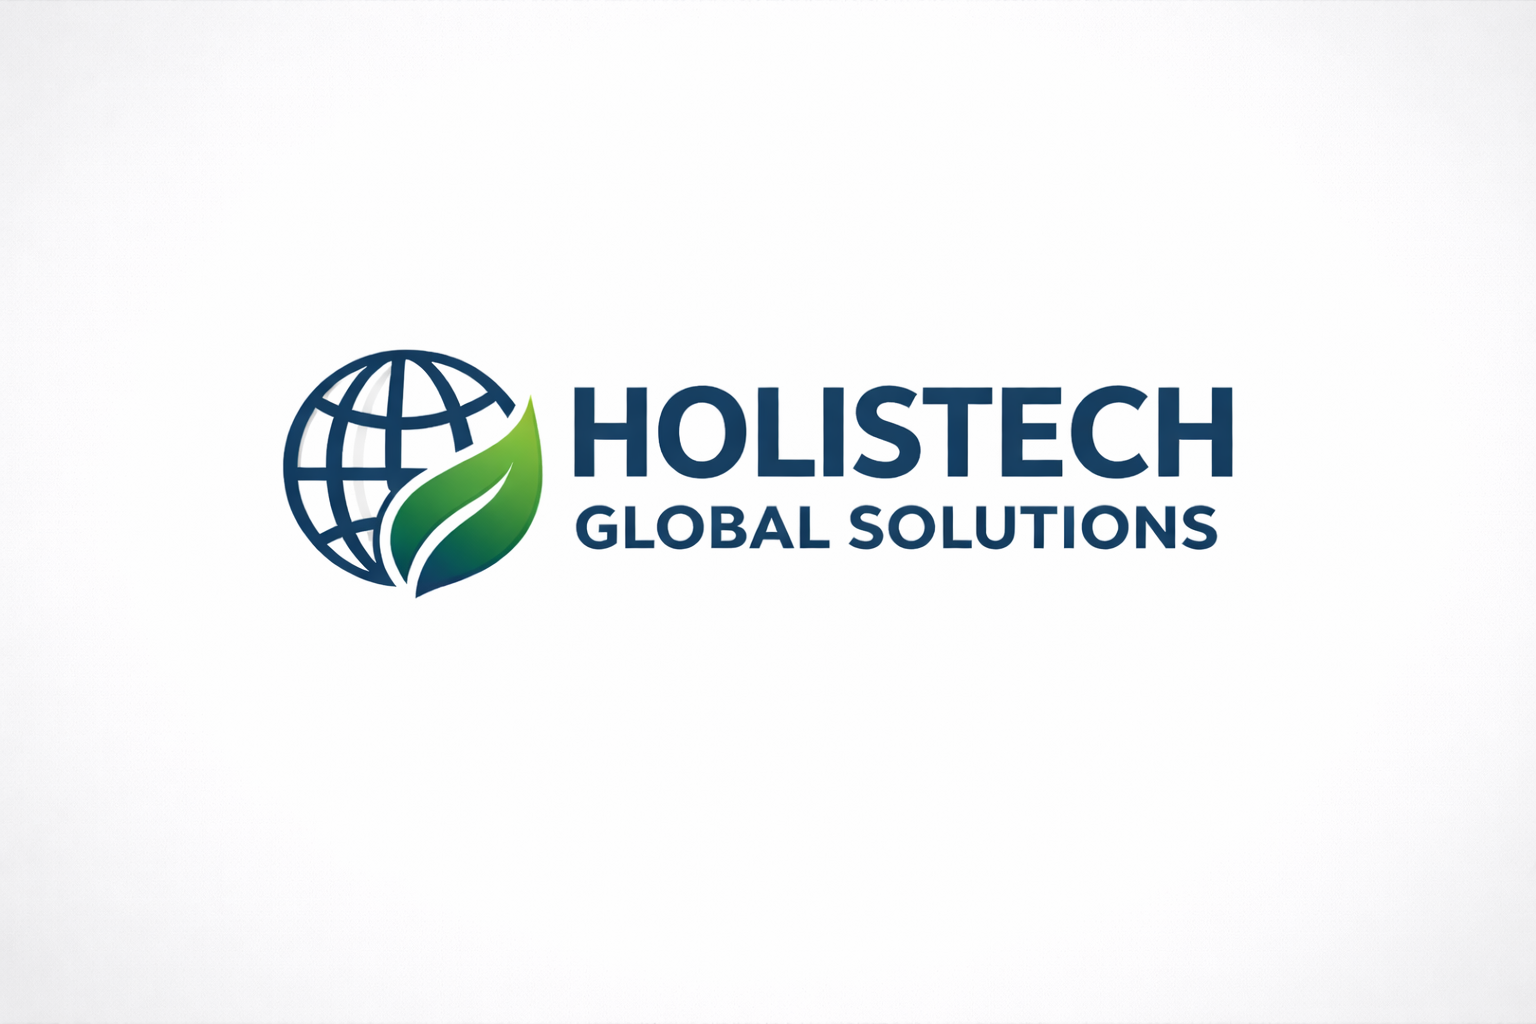
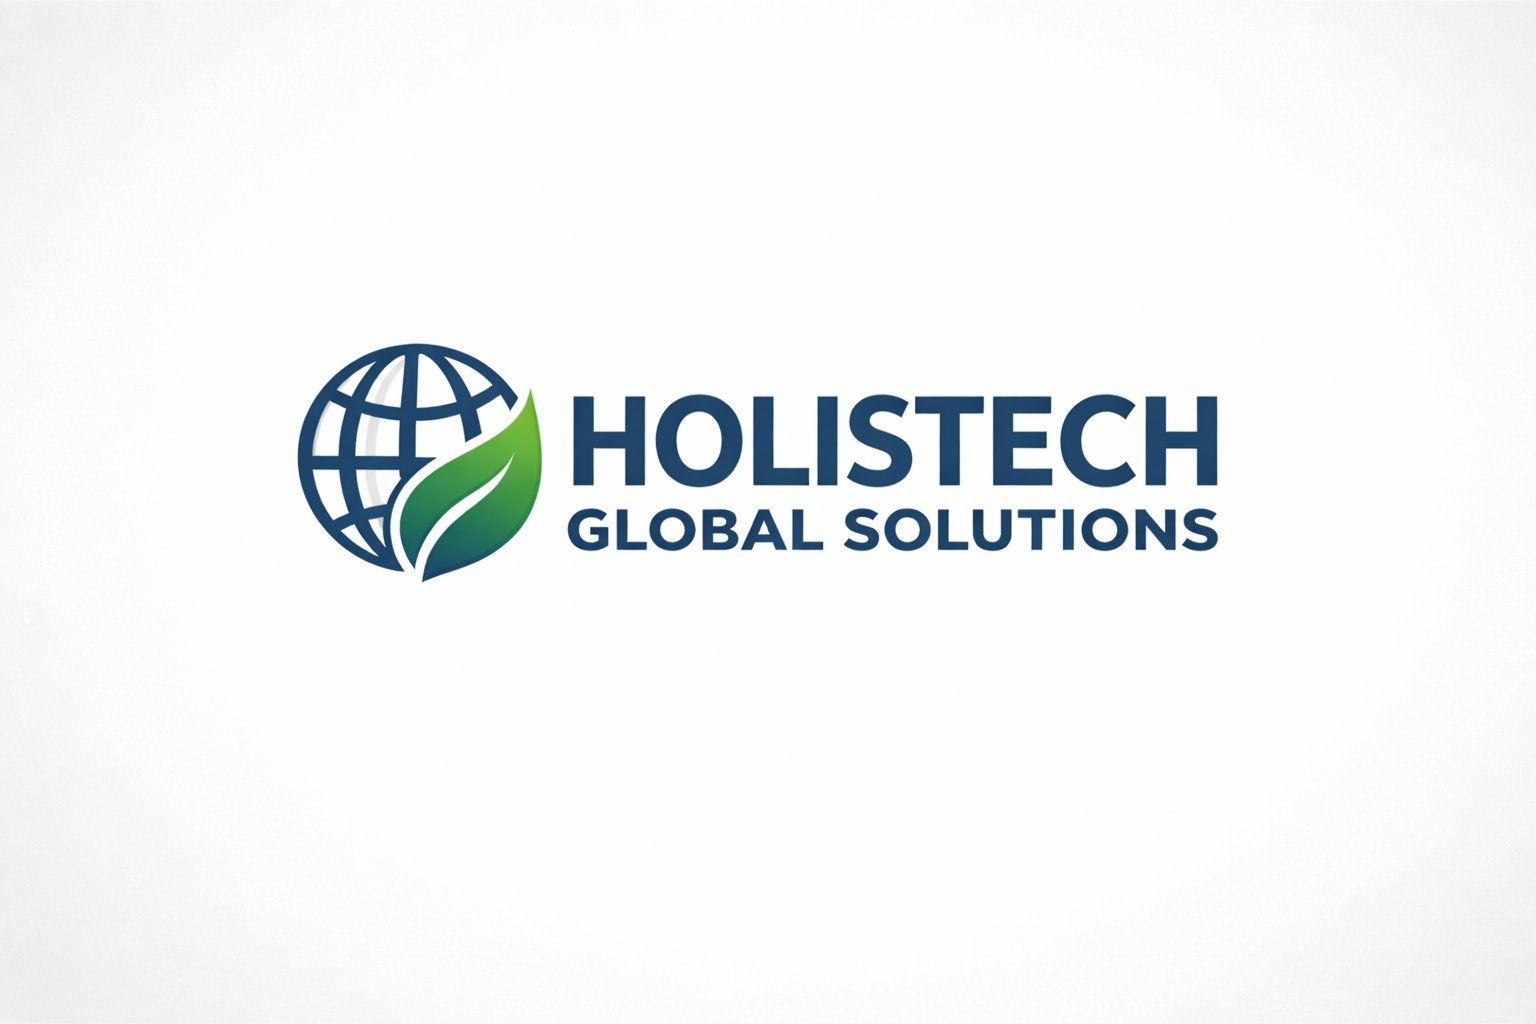
one last

Changed region(s): [[0.1562, 0.3125, 0.8125, 0.5938]]

diff --git a/src/components/Navbar.tsx b/src/components/Navbar.tsx
@@ -33,12 +33,12 @@ const Navbar = () => {
       initial={{ y: -80, opacity: 0 }}
       animate={{ y: 0, opacity: 1 }}
       transition={{ duration: 0.4 }}
-      className="fixed top-4 left-0 right-0 z-50"
+      className="fixed top-3 left-0 right-0 z-50"
     >
       <div className="px-4 lg:px-6">
 
         {/* Navbar container */}
-        <div className="max-w-7xl mx-auto flex items-center justify-between gap-6 px-5 py-1.5 rounded-2xl bg-white/90 backdrop-blur-xl shadow-lg">
+        <div className="max-w-7xl mx-auto flex items-center justify-between gap-6 px-5 py-0.5 rounded-2xl bg-white/90 backdrop-blur-xl shadow-lg">
 
           {/* LOGO */}
           <a
@@ -52,7 +52,7 @@ const Navbar = () => {
             <img
               src="/Holistech.png"
               alt="Holistech"
-              className="h-24 w-auto object-contain"
+              className="h-28 lg:h-32 w-auto object-contain"
             />
           </a>
 

diff --git a/src/components/CompanySection.tsx b/src/components/CompanySection.tsx
@@ -157,7 +157,7 @@ const CompanySection = () => {
           >
             <div className="w-full aspect-square max-w-[260px] mx-auto rounded-3xl overflow-hidden bg-gradient-to-br from-slate-50 to-slate-100 ring-2 ring-slate-200/50 shadow-lg group-hover:ring-blue-200/50 transition-all duration-500">
               <img
-                src="/mohsin-mohammed.jpg"
+                src="/mohsin-mohammed.png"
                 alt="Founder & CEO Mohsin Mohammed"
                 className="w-full h-full object-cover"
               />
@@ -223,7 +223,7 @@ const CompanySection = () => {
                 />
               ) : (
                 <img
-                  src="/mohsin-mohammed.jpg"
+                  src="/mohsin-mohammed.png"
                   alt="Founder & CEO Mohsin Mohammed"
                   className="w-full max-w-sm rounded-3xl shadow-xl object-cover"
                 />
